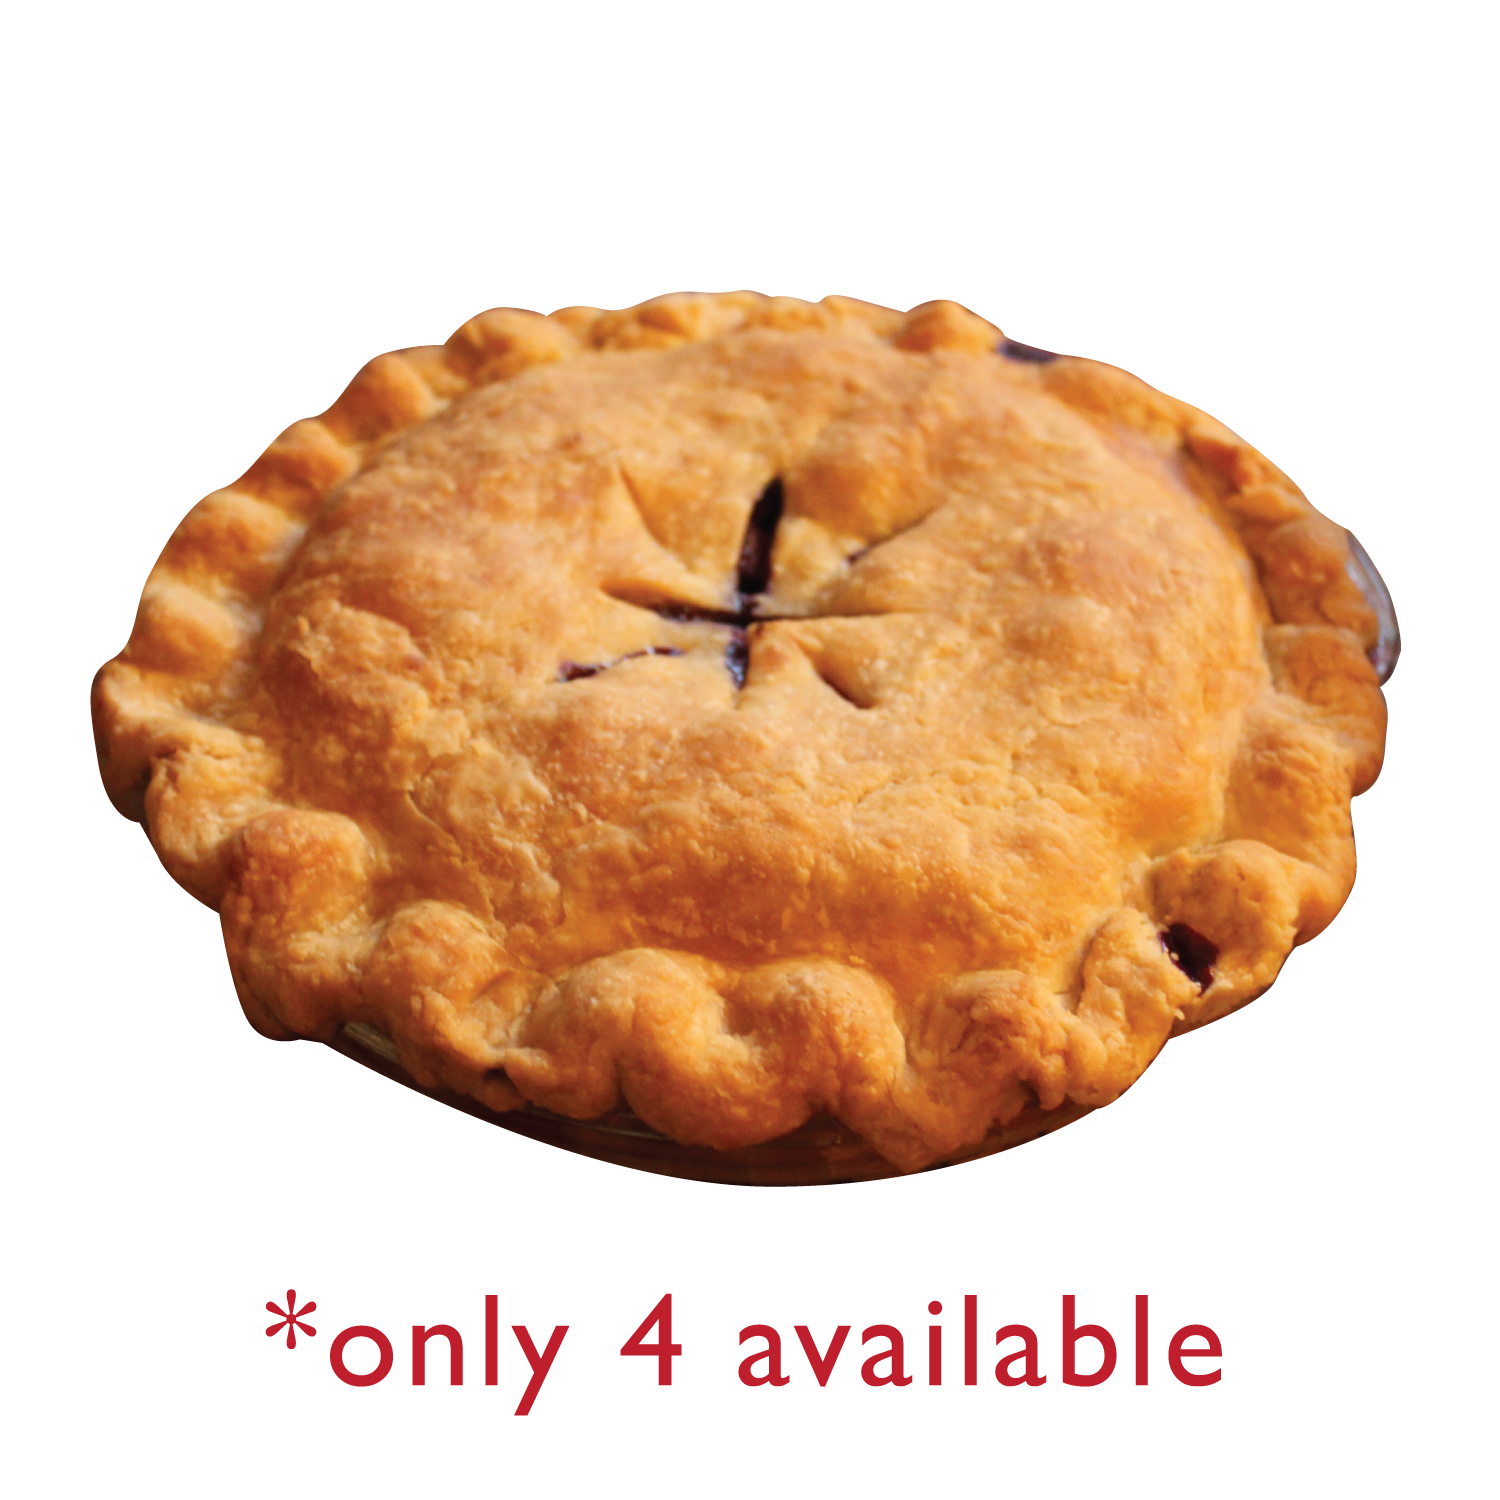
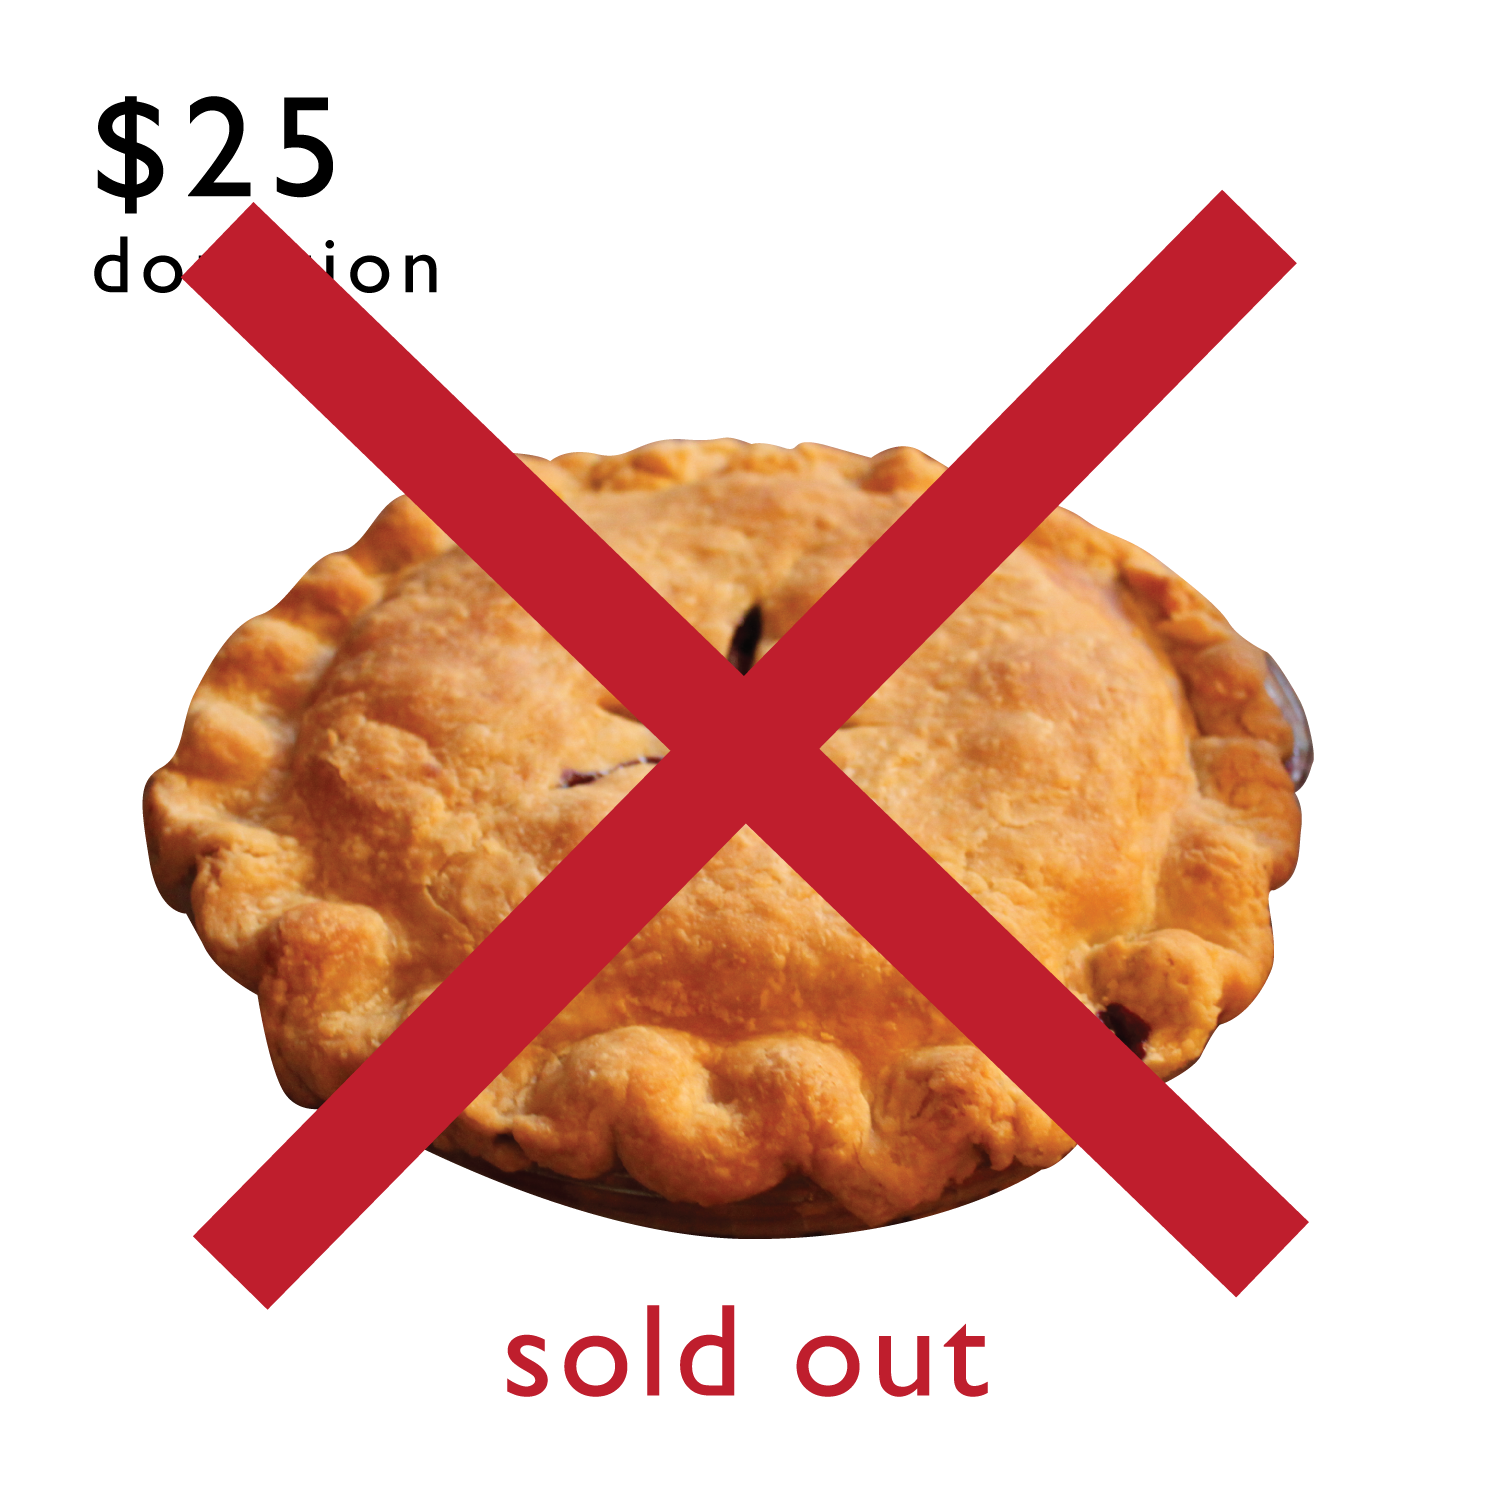
Pies sold out

diff --git a/perk25/index.html b/perk25/index.html
@@ -7,27 +7,7 @@ image: /img/perk25full.png
 <p>
 Festival organizer Mareva Lindo will be baking homemade pies for those willing
 to donate $25 to this year’s Midwest Sing &amp; Stomp. <strike>There are only
-four</strike> <em>There is now only one pie left,</em> so don’t wait too
-long! You can pick from four different flavors: Apple, Apple-Cranberry,
-Apple-Rhubarb, and Maple Pecan.
+four pies, so don’t wait too long!</strike> <em>The pies are sold out,
+sorry! Please check out our other perks!</em>
 </p>
 
-<p><em>Note: Pies must be picked up—we can't ship them!</em></p>
-
-<div class="donate-button">
-<form action="https://www.paypal.com/cgi-bin/webscr" method="post" target="_top">
-<input type="hidden" name="cmd" value="_s-xclick">
-<input type="hidden" name="hosted_button_id" value="WEB5ZYFAFPFCG">
-<table>
-<tr><td><input type="hidden" name="on0" value="Flavors">Flavors</td></tr><tr><td><select name="os0">
-	<option value="Apple">Apple</option>
-	<option value="Apple-Cranberry">Apple-Cranberry</option>
-	<option value="Apple-Rhubarb">Apple-Rhubarb</option>
-	<option value="Maple Pecan">Maple Pecan</option>
-</select> </td></tr>
-</table>
-<input type="hidden" name="currency_code" value="USD">
-<input class="donate-image" type="image" src="http://singandstomp.com/img/donate25.png" border="0" name="submit" alt="PayPal - The safer, easier way to pay online!">
-<img alt="" border="0" src="https://www.paypalobjects.com/en_US/i/scr/pixel.gif" width="1" height="1">
-</form>
-</div>
